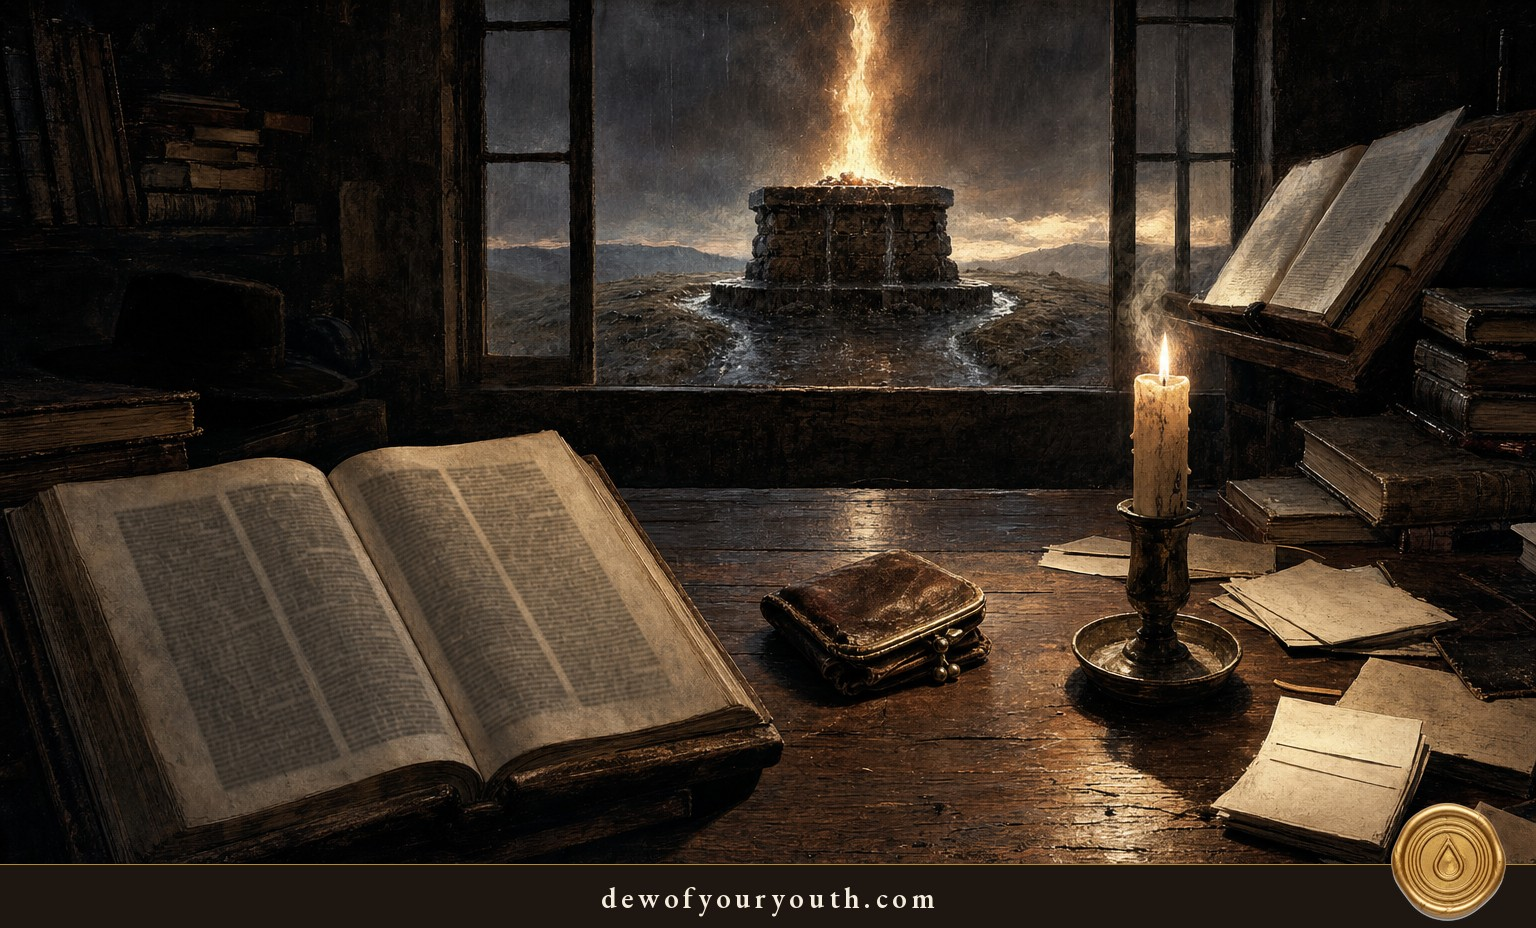
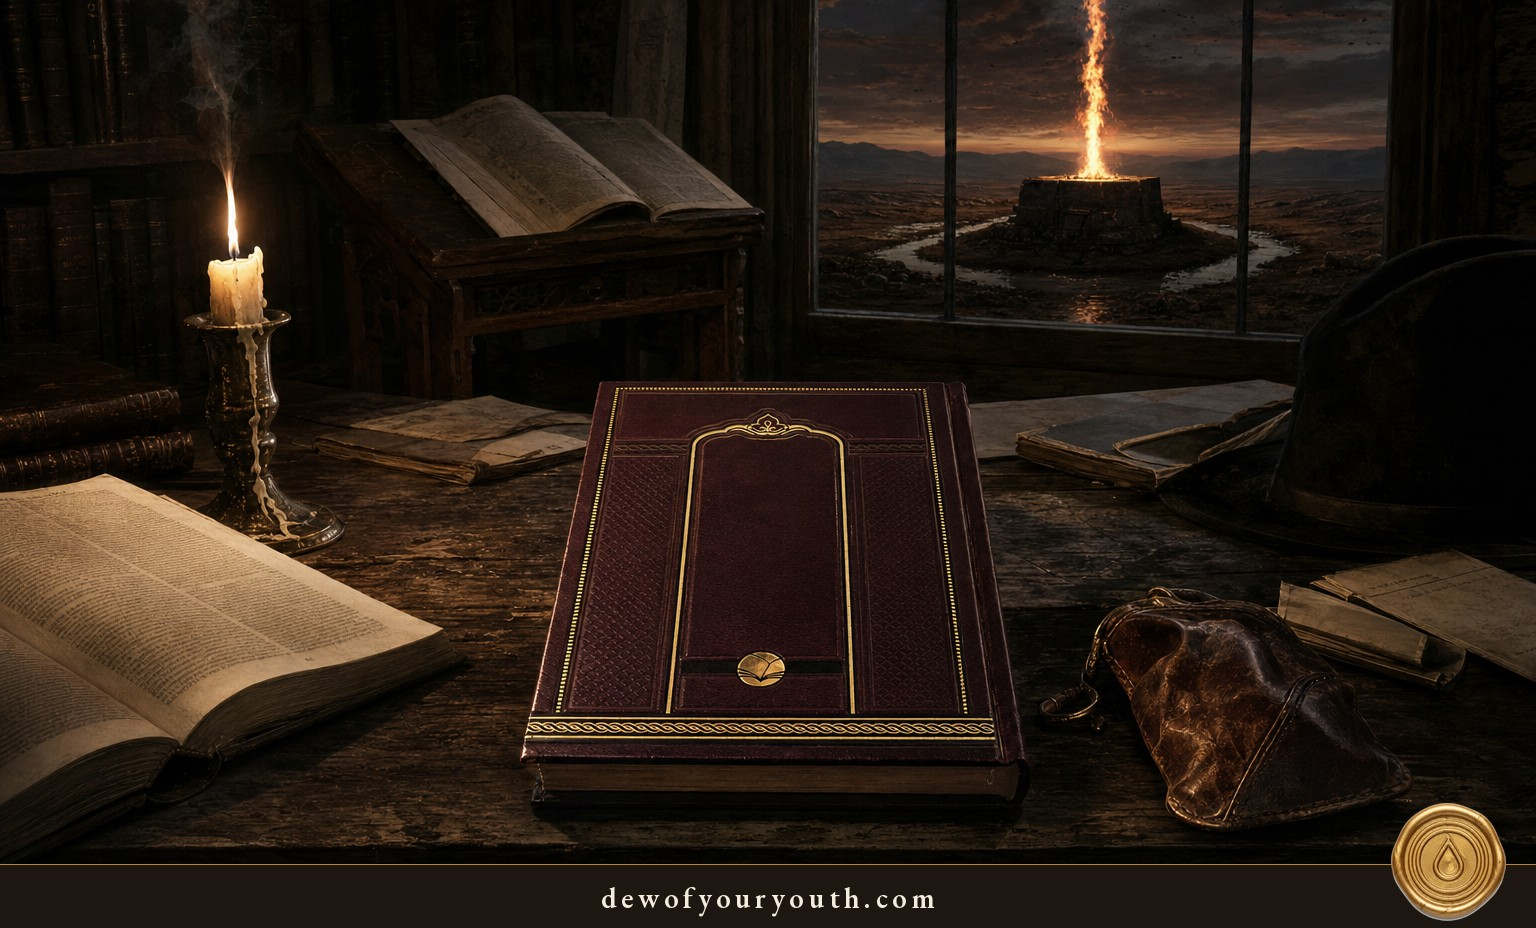
Use Jacob's own Tzidkat HaTzaddik in the 72–73 cover
Claude-Session: https://claude.ai/code/session_012e7T1j7pBe84fNEN6j3kxN

diff --git a/content/posts/returning-to-the-test/index.md b/content/posts/returning-to-the-test/index.md
@@ -23,7 +23,7 @@ series_order: 6
 summary: "Rav Tzadok on Eliyahu's miracles through Torah and Elisha's through prayer, and why Hashem brings a penitent back to the scene of the sin."
 description: "Learning Tzidkat HaTzaddik 72–73 with my father: miracles through Torah versus prayer, complete repentance as facing the same test again, and Gechazi's slow repair."
 featuredImage: "returning-to-the-test.jpg"
-featuredImageAlt: "An open sefer on a candlelit study table beside a worn leather coin purse lying on its own; through the window, a column of fire falls onto a water-soaked stone altar on a hilltop"
+featuredImageAlt: "A closed burgundy-and-gold copy of Tzidkat HaTzaddik on a candlelit study table beside a worn leather coin purse; through the window, a column of fire falls onto a water-soaked stone altar on a hilltop"
 seo:
   images:
     - returning-to-the-test.jpg
